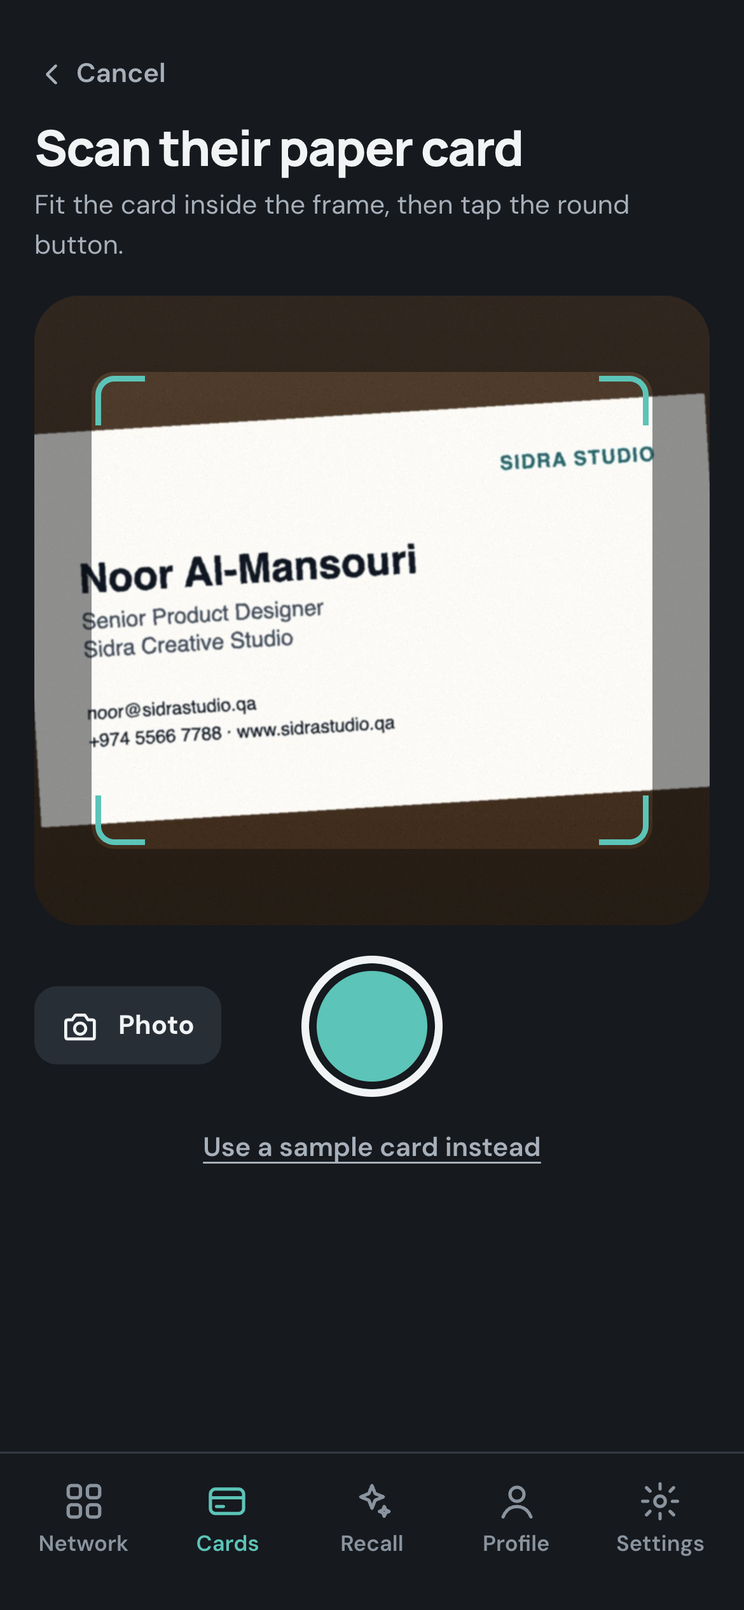
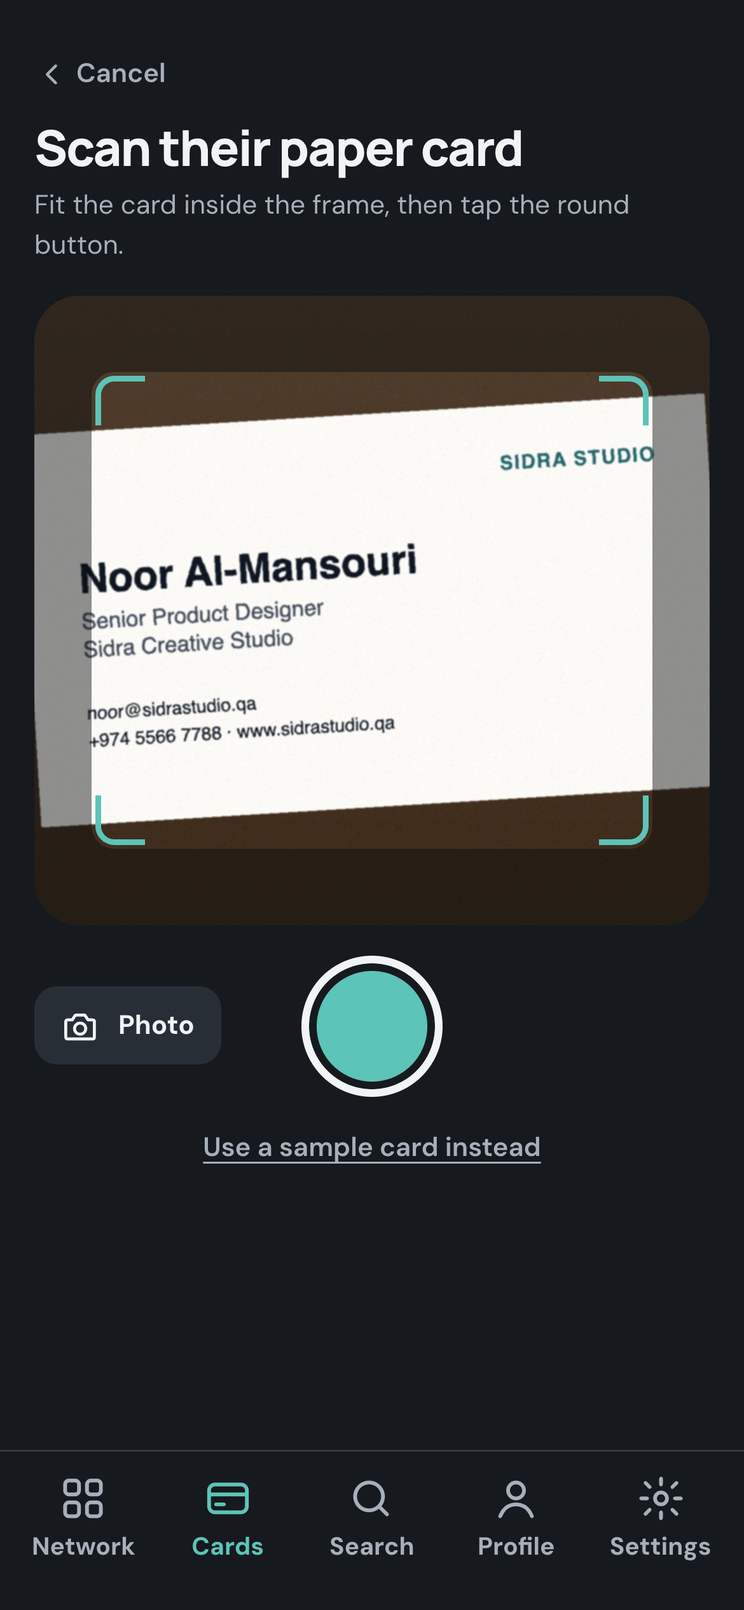
Ask Has Wasl or No Wasl before sharing, fix covered Share button and labels, explain card types, bigger tab bar, Recall renamed Search

diff --git a/public/mockup/index.html b/public/mockup/index.html
@@ -218,8 +218,8 @@ h1, h2, h3 { font-family: var(--display); text-wrap: balance; }
   position: absolute; inset: auto 0 0;
   display: grid;
   grid-template-columns: repeat(5, 1fr);
-  padding: 10px 6px calc(22px + env(safe-area-inset-bottom, 0px));
-  background: rgba(22, 25, 30, 0.94);
+  padding: 8px 6px calc(20px + env(safe-area-inset-bottom, 0px));
+  background: rgba(22, 25, 30, 0.96);
   backdrop-filter: blur(12px);
   border-top: 1px solid var(--line);
   z-index: 20;
@@ -228,12 +228,12 @@ h1, h2, h3 { font-family: var(--display); text-wrap: balance; }
 .tabbar button {
   border: 0; background: transparent;
   display: flex; flex-direction: column; align-items: center; gap: 3px;
-  font-size: 11.5px; font-weight: 600;
-  color: var(--muted);
+  font-size: 13px; font-weight: 700;
+  color: var(--text-2);
   padding: 4px 0;
 }
 .tabbar button[aria-current="page"] { color: var(--teal); }
-.tabbar svg { width: 22px; height: 22px; }
+.tabbar svg { width: 25px; height: 25px; }
 
 /* ---------- common app parts ---------- */
 .topline { display: flex; align-items: center; justify-content: space-between; min-height: 44px; }
@@ -354,19 +354,29 @@ h1, h2, h3 { font-family: var(--display); text-wrap: balance; }
 .card.editing .f:hover { background: rgba(255, 255, 255, 0.12); }
 .card.editing .f.locked { outline: 0; cursor: default; }
 
-/* wallet stack */
-.wallet { position: relative; margin-top: 14px; }
+/* wallet stack: the cards behind show a strip with what they share; the front card sits in the flow, so the page always makes room for it */
+.wallet { --band: 56px; position: relative; margin-top: 12px; }
 .wallet .card { position: absolute; left: 0; right: 0; width: 100%; transition: transform 200ms; }
+.wallet .card:last-child { position: relative; top: 0 !important; }
+.wallet .card.behind .c-tile { visibility: hidden; }
+.card .c-peek { font-family: var(--mono); font-size: 11px; font-weight: 500; opacity: 0.92; min-width: 0; overflow: hidden; text-overflow: ellipsis; white-space: nowrap; }
+.card-about { display: flex; flex-direction: column; gap: 2px; padding: 10px 14px; border-radius: 14px; background: var(--surface); border: 1px solid var(--line); }
+.card-about b { font-size: 14px; }
+.card-about span { color: var(--text-2); font-size: 13px; }
 .wallet .card.behind:hover { transform: translateY(-4px); }
 .wallet .card.front { animation: lift 320ms ease-out; }
 @keyframes lift { from { transform: translateY(-26px); } to { transform: none; } }
 
 /* ---------- screen specifics ---------- */
-.join-hero { display: flex; flex-direction: column; align-items: center; text-align: center; gap: 10px; padding-top: 40px; }
-.join-hero svg.big { width: 128px; height: 82px; }
-.join-hero .wm { font-family: var(--display); font-weight: 800; font-size: 44px; letter-spacing: -1.2px; line-height: 1; }
-.join-hero p { color: var(--text-2); max-width: 26ch; }
-.fan { position: relative; height: 160px; margin: 18px 0 8px; }
+.join-hero { display: flex; flex-direction: column; align-items: center; text-align: center; gap: 8px; padding-top: 16px; }
+.join-hero svg.big { width: 96px; height: 62px; }
+.join-hero .wm { font-family: var(--display); font-weight: 800; font-size: 40px; letter-spacing: -1.2px; line-height: 1; }
+.join-hero p { color: var(--text-2); max-width: 30ch; }
+.fan { position: relative; height: 150px; margin: 10px 0 4px; }
+.what { list-style: none; margin: 0; padding: 0; display: grid; gap: 10px; }
+.what li { display: flex; align-items: center; gap: 12px; font-size: 14.5px; color: var(--text-2); }
+.what li svg { width: 20px; height: 20px; color: var(--teal); flex: none; }
+.what b { color: var(--text); }
 .fan .card { position: absolute; left: 50%; top: 14px; }
 .viewfinder {
   position: relative;
@@ -467,13 +477,21 @@ h1, h2, h3 { font-family: var(--display); text-wrap: balance; }
 .swatch.social { background: var(--card-social); }
 .swatch.team { background: var(--card-team); }
 
-.exchange { position: relative; height: 470px; margin-top: 8px; }
-.exchange .slot { position: absolute; left: 0; right: 0; transition: transform 700ms cubic-bezier(.6, -0.2, .3, 1.3), opacity 300ms; }
-.exchange .theirs { top: 0; }
-.exchange .yours { bottom: 0; }
+/* the two cards sit in the flow, so the labels can never land on a card at any screen size */
+.exchange { position: relative; display: flex; flex-direction: column; gap: 14px; margin-top: 10px; }
+.exchange .slot { position: relative; width: 100%; max-width: 300px; margin-inline: auto; transition: transform 700ms cubic-bezier(.6, -0.2, .3, 1.3), opacity 300ms; }
 .exchange .slot .who { font-family: var(--mono); font-size: 11px; letter-spacing: 0.08em; color: var(--muted); text-transform: uppercase; margin-bottom: 8px; }
-.exchange.swapping .theirs { transform: translateY(258px) rotate(-3deg); }
-.exchange.swapping .yours { transform: translateY(-258px) rotate(3deg); }
+.exchange.swapping .theirs { transform: translateY(calc(100% + 14px)) rotate(-3deg); }
+.exchange.swapping .yours { transform: translateY(calc(-100% - 14px)) rotate(3deg); }
+.choice { display: flex; align-items: center; gap: 14px; width: 100%; text-align: left; border: 1px solid var(--line); background: var(--surface); color: var(--text); border-radius: 18px; padding: 16px; }
+.choice .ic { width: 44px; height: 44px; border-radius: 14px; display: grid; place-items: center; flex: none; background: rgba(92, 196, 184, 0.16); color: var(--teal); }
+.choice .ic svg { width: 22px; height: 22px; }
+.choice.no-wasl .ic { background: rgba(239, 160, 102, 0.16); color: var(--orange); }
+.choice b { display: block; font-size: 17px; }
+.choice span span { color: var(--text-2); font-size: 13.5px; }
+.choice > svg { width: 18px; height: 18px; color: var(--muted); margin-left: auto; flex: none; }
+.sharing { margin-top: 22px; }
+.sharing .card { max-width: 300px; margin: 8px auto 0; }
 .exchange .pulse { position: absolute; left: 50%; top: 50%; width: 64px; height: 64px; margin: -32px; border-radius: 50%; display: grid; place-items: center; background: var(--raised); color: var(--teal); z-index: 2; }
 .exchange .pulse svg { width: 28px; height: 28px; }
 .exchange.swapping .pulse { animation: buzz 120ms linear 6; }
@@ -731,7 +749,15 @@ h1, h2, h3 { font-family: var(--display); text-wrap: balance; }
     phone: { label: "Phone", icon: "phone" },
     instagram: { label: "Instagram", icon: "insta" },
   };
-  const KIND = { pro: "PROFESSIONAL", event: "EVENT", social: "SOCIAL", team: "TEAM WASL" };
+  const KIND = { pro: "PROFESSIONAL", event: "EVENT", social: "SOCIAL", team: "TEAM" };
+  // what each card is for, said plainly (testers didn't know what "Event" or "Team" meant)
+  const KIND_FOR = {
+    pro: "For work contacts and recruiters.",
+    event: "For people you meet at events. Shares the basics only.",
+    social: "For friends and people you meet socially.",
+    team: "For your teammates and classmates.",
+  };
+  const kindName = (id) => KIND[id].charAt(0) + KIND[id].slice(1).toLowerCase();
   const COLOR_NAME = { pro: "Deep teal", event: "Deep violet", social: "Copper", team: "Deep blue" };
 
   // Each person shares a different set of details, the way real cards differ.
@@ -797,7 +823,7 @@ h1, h2, h3 { font-family: var(--display); text-wrap: balance; }
     front: "event",
     editId: "event",
     draft: null,
-    exPhase: "ready",
+    exPhase: "ask", // ask | ready | swapping | done | paper | paperfound | scanned
     swappedWith: null,
     mariamSaved: false,
     ctxConfirmed: false,
@@ -834,9 +860,12 @@ h1, h2, h3 { font-family: var(--display); text-wrap: balance; }
 
   // ---------- rendering helpers ----------
   const fieldValue = (f) => ME[f];
+  const sharesList = (fields) => fields.map((f) => FIELD_META[f].short || FIELD_META[f].label).join(" · ");
+  const cardFields = (id) => S.cards[id].fields.filter((f) => f !== "instagram" || S.extra.instagram);
   function card(id, opts = {}) {
     const c = opts.data || S.cards[id];
-    const fields = c.fields;
+    // Instagram appears only after the person adds their own handle
+    const fields = c.fields.filter((f) => f !== "instagram" || S.extra.instagram);
     const isEdit = !!opts.edit;
     const mini = !!opts.mini;
     const body = ["name", "role", "org"].filter((f) => fields.includes(f) && !(mini && f === "org"));
@@ -846,7 +875,7 @@ h1, h2, h3 { font-family: var(--display); text-wrap: balance; }
         ? `<span class="f ${cls}" data-act="hide-field" data-f="${f}" role="button" tabindex="0" aria-label="Hide ${FIELD_META[f].label}">${esc(text)}</span>`
         : `<span class="f ${cls} ${isEdit ? "locked" : ""}">${esc(text)}</span>`;
     return `<${opts.tag || "div"} class="card ${c.color} ${isEdit ? "editing" : ""} ${mini ? "mini" : ""} ${opts.cls || ""}" ${opts.attrs || ""}>
-      <div class="c-top"><span class="c-word">wasl</span><span class="c-kind">${KIND[id] || ""}</span></div>
+      <div class="c-top">${opts.peek ? `<span class="c-peek">${esc(sharesList(fields))}</span>` : '<span class="c-word">wasl</span>'}<span class="c-kind">${KIND[id] || ""}</span></div>
       ${tile(!mini && fields.includes("org") ? ME.org : null)}
       ${body.includes("name") ? `<div class="c-name">${fEl("name", "", ME.name)}</div>` : ""}
       ${body.filter((f) => f !== "name").map((f) => `<div class="c-line">${fEl(f, "", fieldValue(f))}</div>`).join("")}
@@ -912,14 +941,20 @@ h1, h2, h3 { font-family: var(--display); text-wrap: balance; }
       return `<div class="join-hero">
           ${symbol("big")}
           <div class="wm">wasl</div>
-          <p>Never forget who you met, or why it mattered.</p>
+          <p>Your business cards on your phone. Never forget who you met, or why it mattered.</p>
         </div>
         <div class="fan" aria-hidden="true">
           ${card("social", { mini: true, attrs: 'style="transform:translateX(-88%) rotate(-12deg) scale(.9)"' })}
           ${card("event", { mini: true, attrs: 'style="transform:translateX(-12%) rotate(10deg) scale(.9)"' })}
           ${card("pro", { mini: true, attrs: 'style="transform:translateX(-50%) rotate(-2deg);top:24px"' })}
         </div>
-        <div class="stack" style="margin-top:22px">
+        <ul class="what">
+          <li>${ic("cards")}<span><b>Share</b> a digital business card with one scan</span></li>
+          <li>${ic("pin")}<span><b>Remember</b> where you met and what you talked about</span></li>
+          <li>${ic("search")}<span><b>Find</b> people later by what you remember</span></li>
+        </ul>
+        <div class="stack" style="margin-top:18px">
+          <p class="hint" style="margin:0">Start by scanning your own business card</p>
           <button class="btn" data-act="scan-own">${ic("scan")}Scan my business card</button>
           <button class="btn blue" data-act="import-linkedin">${ic("linkedin")}Import from LinkedIn</button>
           <button class="link" data-act="email-signup">Sign up with email instead</button>
@@ -972,10 +1007,10 @@ h1, h2, h3 { font-family: var(--display); text-wrap: balance; }
     build() {
       const d = S.draft;
       const allContact = ["role", "org", "email", "linkedin", "phone", "instagram"];
-      const hidden = allContact.filter((f) => !d.fields.includes(f));
+      const hidden = allContact.filter((f) => !d.fields.includes(f) && (f !== "instagram" || S.extra.instagram));
       return `${back("wallet", "Cards")}
-        <h2 class="title" style="font-size:26px">Edit ${KIND[S.editId].toLowerCase().replace(/^\w/, (c) => c.toUpperCase())} card</h2>
-        <p class="sub">Tap a detail on the card to hide it.</p>
+        <h2 class="title" style="font-size:26px">Edit ${kindName(S.editId)} card</h2>
+        <p class="sub">${KIND_FOR[S.editId]} Tap a detail on the card to hide it, like your email.</p>
         <div style="margin:16px 0 18px">${card(S.editId, { data: d, edit: true })}</div>
         <div class="stack">
           <div class="label">Add from your profile</div>
@@ -987,18 +1022,14 @@ h1, h2, h3 { font-family: var(--display); text-wrap: balance; }
     },
 
     wallet() {
-      const band = 66;
-      const cardH = 216;
       const order = S.order;
-      const h = band * (order.length - 1) + cardH;
-      return `<div class="topline"><span class="wordmark">${symbol()}wasl</span><button class="round" data-act="edit-front" aria-label="Edit the front card">${ic("plus")}</button></div>
-        <h2 class="title">My cards</h2>
-        <div class="wallet" style="height:${h}px">
-          ${order.map((id, i) => card(id, { cls: id === S.front ? "front" : "behind", attrs: `style="top:${i * band}px;z-index:${i + 1}" data-act="front" data-id="${id}" role="button" tabindex="0" aria-label="${KIND[id]} card"` })).join("")}
+      return `<div class="topline"><h2 class="title">My cards</h2><button class="round" data-act="edit-front" aria-label="Edit the front card">${ic("pencil")}</button></div>
+        <div class="wallet" style="padding-top:calc(var(--band) * ${order.length - 1})">
+          ${order.map((id, i) => card(id, { peek: id !== S.front, cls: id === S.front ? "front" : "behind", attrs: `style="top:calc(var(--band) * ${i});z-index:${i + 1}" data-act="front" data-id="${id}" role="button" tabindex="0" aria-label="${kindName(id)} card: ${sharesList(cardFields(id))}"` })).join("")}
         </div>
-        <div class="stack" style="margin-top:16px">
-          <button class="btn" data-act="share">${ic("qr")}Share ${KIND[S.front].charAt(0) + KIND[S.front].slice(1).toLowerCase()}</button>
-          <div class="row" style="justify-content:center;gap:4px"><p class="hint">Tap a card to bring it forward ·</p><button class="link" style="font-size:13px" data-act="edit-front">Edit this card</button></div>
+        <div class="stack" style="margin-top:12px;gap:10px">
+          <button class="btn" data-act="share">${ic("qr")}Share card</button>
+          <div class="card-about"><b>${kindName(S.front)} card</b><span>${KIND_FOR[S.front]} Tap another card to switch, or <button class="link" style="padding:0;font-size:13px" data-act="edit-front">edit this one</button>.</span></div>
         </div>`;
     },
 
@@ -1057,7 +1088,17 @@ h1, h2, h3 { font-family: var(--display); text-wrap: balance; }
     },
 
     exchange() {
-      const kind = KIND[S.front].charAt(0) + KIND[S.front].slice(1).toLowerCase();
+      const kind = kindName(S.front);
+      // first ask whether the other person has Wasl, so Mariam only appears when she does
+      if (S.exPhase === "ask")
+        return `${back("wallet", "Cards")}
+          <h2 class="title" style="font-size:26px">Share your ${kind} card</h2>
+          <p class="sub">Does the person you just met have Wasl?</p>
+          <div class="stack" style="margin-top:18px">
+            <button class="choice" data-act="has-wasl"><span class="ic">${ic("qr")}</span><span><b>They have Wasl</b><span>Swap cards by scanning each other's code</span></span>${ic("right")}</button>
+            <button class="choice no-wasl" data-act="scan-paper"><span class="ic">${ic("camera")}</span><span><b>No Wasl</b><span>Scan their paper business card instead</span></span>${ic("right")}</button>
+          </div>
+          <div class="sharing"><div class="label" style="text-align:center">You're sharing</div>${card(S.front)}</div>`;
       if (S.exPhase === "scanned") {
         const p = S.scanned[0];
         return `${back("exchange-reset", "Share")}
@@ -1066,7 +1107,7 @@ h1, h2, h3 { font-family: var(--display); text-wrap: balance; }
           <div style="margin:18px 0">${personCard(p)}</div>
           <div class="stack">
             <button class="btn" data-go="network">${ic("network")}Open my network</button>
-            <button class="link" data-go="exchange-reset">Swap cards with Mariam instead</button>
+            <button class="link" data-go="exchange-swap">Swap cards with Mariam instead</button>
           </div>`;
       }
       if (S.exPhase === "paper")
@@ -1094,8 +1135,8 @@ h1, h2, h3 { font-family: var(--display); text-wrap: balance; }
           <p class="sub">${S.swappedWith === "paper" ? "Wasl turned it into a card and invited her to join." : `She has your ${kind} card. Hers is now in your wallet.`}</p>
           <div style="margin:18px 0">${personCard(MARIAM)}</div>
           <button class="btn" data-go="save">${ic("check")}Save Mariam</button>`;
-      return `${back("wallet", "Cards")}
-        <h2 class="title" style="font-size:26px">Share your ${kind} card</h2>
+      return `${back("exchange-reset", "Back")}
+        <h2 class="title" style="font-size:26px">Swap cards with Mariam</h2>
         <p class="sub">Scan Mariam's code, or let her scan yours.</p>
         <div class="exchange ${S.exPhase === "swapping" ? "swapping" : ""}" id="exchange">
           <div class="slot theirs"><div class="who">Mariam's phone</div>${personCard(MARIAM)}</div>
@@ -1105,8 +1146,7 @@ h1, h2, h3 { font-family: var(--display); text-wrap: balance; }
         <div class="row" style="margin-top:12px">
           <div style="width:72px;height:72px;flex:none">${qrSvg(7)}</div>
           <button class="btn" data-act="do-swap" ${S.exPhase === "swapping" ? "disabled" : ""}>${ic("scan")}Scan Mariam's code</button>
-        </div>
-        <button class="link" style="display:block;margin:10px auto 0" data-act="scan-paper">No Wasl? Scan their paper card</button>`;
+        </div>`;
     },
 
     save() {
@@ -1240,7 +1280,7 @@ h1, h2, h3 { font-family: var(--display); text-wrap: balance; }
             </div>`).join("")
           : `<div class="panel stack" style="margin-top:16px"><b>No one matched that</b><p class="sub">Try what they did, where you met, or what you talked about.</p></div>`;
       }
-      return `<div class="topline"><h2 class="title">Recall</h2></div>
+      return `<div class="topline"><h2 class="title">Search</h2></div>
         <p class="sub">Ask like you remember it, by typing or with the mic. No names needed.</p>
         <form class="search" id="recallForm" style="margin-top:16px" autocomplete="off">
           ${ic("recall")}
@@ -1342,7 +1382,7 @@ h1, h2, h3 { font-family: var(--display); text-wrap: balance; }
   const screenEl = document.getElementById("screen");
   const tabbar = document.getElementById("tabbar");
   const overlay = document.getElementById("overlay");
-  const TABS = [["network", "Network"], ["wallet", "Cards"], ["recall", "Recall"], ["profile", "Profile"], ["settings", "Settings"]];
+  const TABS = [["network", "Network"], ["wallet", "Cards"], ["recall", "Search"], ["profile", "Profile"], ["settings", "Settings"]];
   const TAB_OF = { network: "network", album: "network", debrief: "network", remember: "network", wallet: "wallet", build: "wallet", exchange: "wallet", scanner: "wallet", save: "wallet", recall: "recall", profile: "profile", settings: "settings" };
   let lastScreen = null;
 
@@ -1361,7 +1401,7 @@ h1, h2, h3 { font-family: var(--display); text-wrap: balance; }
       screenEl.scrollTop = 0;
       lastScreen = S.screen;
     }
-    tabbar.innerHTML = TABS.map(([k, l]) => `<button data-go="${k}" ${TAB_OF[S.screen] === k ? 'aria-current="page"' : ""}>${ic(k === "wallet" ? "cards" : k)}${l}</button>`).join("");
+    tabbar.innerHTML = TABS.map(([k, l]) => `<button data-go="${k}" ${TAB_OF[S.screen] === k ? 'aria-current="page"' : ""}>${ic(k === "wallet" ? "cards" : k === "recall" ? "search" : k)}${l}</button>`).join("");
     overlay.innerHTML = S.sheet ? sheets[S.sheet]() : "";
     if (S.screen === "debrief") bindDeck();
     renderGuide();
@@ -1427,7 +1467,8 @@ h1, h2, h3 { font-family: var(--display); text-wrap: balance; }
   // ---------- actions ----------
   function go(to) {
     if (to === "join-reset") { S.joinPhase = "choose"; S.screen = "join"; }
-    else if (to === "exchange-reset") { S.exPhase = "ready"; S.screen = "exchange"; }
+    else if (to === "exchange-reset") { S.exPhase = "ask"; S.screen = "exchange"; }
+    else if (to === "exchange-swap") { S.exPhase = "ready"; S.screen = "exchange"; }
     else if (to === "save" && !S.swappedWith) { setupTo(3); }
     else if (to === "remember" && !S.swappedWith) { setupTo(4); }
     else S.screen = to;
@@ -1511,7 +1552,8 @@ h1, h2, h3 { font-family: var(--display); text-wrap: balance; }
       render();
       xpToast("Card saved", 15);
     },
-    share() { S.exPhase = "ready"; S.screen = "exchange"; render(); },
+    share() { S.exPhase = "ask"; S.screen = "exchange"; render(); },
+    "has-wasl"() { S.exPhase = "ready"; render(); },
     "do-swap"() {
       if (!S.profileFilled) S.profileFilled = true;
       S.exPhase = "swapping";
@@ -2093,12 +2135,12 @@ h1, h2, h3 { font-family: var(--display); text-wrap: balance; }
   const STEPS = [
     { n: "1", t: "Join", wow: 1, h: "Scan your card. Your profile fills itself.", screen: "join" },
     { n: "2", t: "Build", wow: 1, h: "Tap details on the card to hide them. Pick a color.", screen: "build" },
-    { n: "3", t: "Share", wow: 1, h: "Swap cards with Mariam, or scan her paper card.", screen: "wallet" },
+    { n: "3", t: "Share", wow: 1, h: "Share card. Has Wasl? Swap codes. No Wasl? Scan their paper card.", screen: "wallet" },
     { n: "4", t: "Save", wow: 2, h: "Confirm where you met. Add a tag.", screen: "save" },
     { n: "5", t: "Remember", wow: 2, h: "Tap the mic and talk. Wasl keeps only what mattered.", screen: "remember" },
     { n: "+", t: "Debrief", wow: 2, h: "Bonus: swipe through tonight's people.", screen: "debrief" },
     { n: "6", t: "Browse", wow: 3, h: "Albums by event and company build themselves.", screen: "network" },
-    { n: "7", t: "Recall", wow: 3, h: "Ask for someone by memory, not by name.", screen: "recall" },
+    { n: "7", t: "Search", wow: 3, h: "Find someone by memory, not by name.", screen: "recall" },
   ];
   const WOW = { 1: "WOW 1", 2: "WOW 2", 3: "WOW 3" };
   const STEP_OF = { join: 0, profile: 0, build: 1, wallet: 2, exchange: 2, save: 3, remember: 4, debrief: 5, network: 6, album: 6, recall: 7, settings: -1 };

diff --git a/docs/TECHNICAL_SOLUTION.md b/docs/TECHNICAL_SOLUTION.md
@@ -34,12 +34,12 @@ Status key: **Built** = works in the MVP repo today. **Mockup** = shown in the c
 |---|---|---|---|
 | 1 · Join | Scan your own card or import LinkedIn; the profile fills itself and levels up | Card photo → Google Vision OCR → `gpt-4o-mini` turns the text into fields → user reviews before saving. Level = share of profile fields filled. | Scanning your own card: works in the mockup with the phone camera (OCR in the browser); the real app uses the built Google Vision scanner from step 3. Levels: **Mockup**. LinkedIn import: **Planned** (API access uncertain) |
 | 2 · Build | Tap a detail on the card to hide it; pick a color | Each card stores a list of profile fields it shows. Shared links only ever expose those fields. | Field selection: **Built**. Tap-on-card editor, colors and company logos: **Mockup** |
-| 3 · Share | Stacked wallet; one scan swaps cards with a buzz | Each card has a revocable share token shown as a QR code. Scanning it saves the card. A two-way swap = both phones scan or one phone confirms on the other. No Wasl? Scan their paper card: the mockup does this for real with the phone camera (or a photo), Tesseract.js OCR and an editable review. | QR share + save, and scanning someone else's card (Google Vision, reviewed before saving): **Built**. Wallet stack and two-way swap animation: **Mockup** |
+| 3 · Share | Stacked wallet; "Share card" first asks whether they have Wasl; one scan swaps cards with a buzz | Each card has a revocable share token shown as a QR code. Scanning it saves the card. A two-way swap = both phones scan or one phone confirms on the other. If they have no Wasl, scan their paper card: the mockup does this for real with the phone camera (or a photo), Tesseract.js OCR and an editable review. | QR share + save, and scanning someone else's card (Google Vision, reviewed before saving): **Built**. Wallet stack and two-way swap animation: **Mockup** |
 | 4 · Save | "Wasl already knows where you met"; one-tap tags | On save, the phone suggests event, place and time from the calendar entry happening now and the current location. The user confirms. Tags are stored on the connection. | Meeting context, categories: **Built** (typed in). Calendar + location suggestions: **Mockup** |
 | 5 · Remember | Tap the mic and talk; Wasl keeps the key points | Both people consent on their phones → audio is transcribed → `gpt-4o-mini` writes 3–5 bullet points → the audio is deleted and only the text is saved as a private note. | Private notes and interaction history: **Built**. Recording + summary: works in the mockup with the browser's speech-to-text (key points picked by rules; the real build will use the AI model), **Planned** for the backend |
 | Bonus · Debrief | Swipe through tonight's people | Lists connections saved during the current event. Swipe right = favorite, left = keep as a contact. | Favorites: **Built**. Swipe debrief: **Mockup** |
 | 6 · Browse | Albums by event and company build themselves | Albums are saved filters (event, company, tag) over the user's connections, so they stay up to date with no sorting. | Search and categories: **Built**. Auto albums: **Mockup** |
-| 7 · Recall | "the engineer who offered me an intro to her CTO" → Mariam, with the reason | Hybrid search: keyword matching plus pgvector similarity over each contact's saved context. The top candidates go to the model, which may only return a contact it was given and must quote the exact saved text that matches. If AI is unavailable, keyword results still work. Before an event, Recall can also list people you've met who are on its guest list (Mockup). In the mockup you can also ask by voice, and Recall searches what was said in recorded chats and the people you scanned. | **Built** (keyword always; AI when an OpenAI key is configured) |
+| 7 · Search (recall by memory) | "the engineer who offered me an intro to her CTO" → Mariam, with the reason | Hybrid search: keyword matching plus pgvector similarity over each contact's saved context. The top candidates go to the model, which may only return a contact it was given and must quote the exact saved text that matches. If AI is unavailable, keyword results still work. Before an event, Recall can also list people you've met who are on its guest list (Mockup). In the mockup you can also ask by voice, and Recall searches what was said in recorded chats and the people you scanned. | **Built** (keyword always; AI when an OpenAI key is configured) |
 
 ## Data model (built)
 
